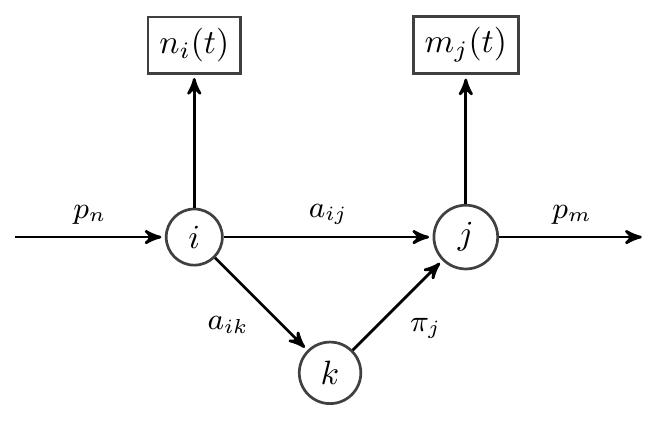
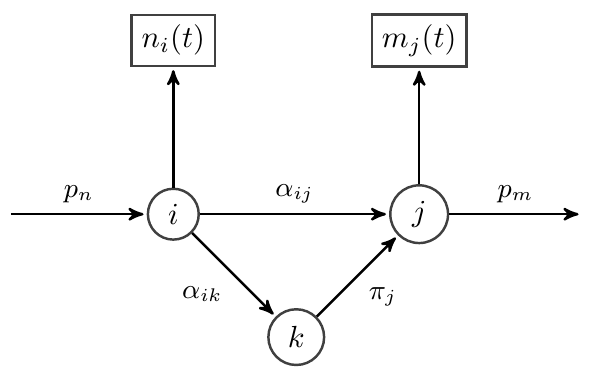
///////////// |_o_| |_o_| | |   c       | | /------\  | |/        \ | |__________\|

Changed region(s): [[0.0, 0.1755, 0.9697, 0.9947], [0.6061, 0.0293, 0.7879, 0.5266], [0.2121, 0.0293, 0.3939, 0.1755]]

diff --git a/417/term_project/417course_project.html b/417/term_project/417course_project.html
@@ -14,20 +14,49 @@
 			margin-left: 30px;
 		}
 
-		h1, h2 {
+		h1, h2, h3 {
 		    font-family: Arial, Helvetica, sans-serif;
 		}
 		figure{
 			text-align: center;
 		}
+		span.author{
+			font-size: 14pt;
+		}
 		</style>
+		<head>
+		<script type="text/x-mathjax-config">
+		  MathJax.Hub.Config({tex2jax: {inlineMath: [['$','$'], ['\\(','\\)']]}});
+		  // MathJax.Hub.Register.StartupHook("AsciiMath Jax Config",function () {
+		  //   var AM = MathJax.InputJax.AsciiMath.AM;
+		  //   AM.symbols.push(
+		  //     {input:"mathbi", tag:"mstyle", atname:"mathvariant", atval:"bold-italic",
+		  //      output:"mathbi", tex:null, ttype:AM.TOKEN.UNARY}
+		  //   );
+		  // });
+		  MathJax.Hub.Config({ TeX: { equationNumbers: {autoNumber: "AMS"} } });
+		</script>
+		<script type="text/javascript"
+		  src="http://cdn.mathjax.org/mathjax/latest/MathJax.js?config=TeX-AMS-MML_HTMLorMML">
+		</script>
+
+		<script src="http://ajax.googleapis.com/ajax/libs/jquery/1.11.1/jquery.min.js"></script>
+		<script>
+			$("a[href='#top']").click(function() {
+			  $("html, body").animate({ scrollTop: 0 }, "slow");
+			  return false;
+			});
+		</script>
+</head>
 	</HEAD>
 <BODY>
 	<center>
 		<H1>
-			Investigation on Network Calibration
+			Study on Network Calibration
 		</H1>
-		by Yi Tian Xu 
+		<span class="author">by Yi Tian Xu <br>
+		Undergraduate in Statistics and Computer Science <br>
+		@McGill University, December 2014</span>
 	</center>
 	<P class="abstract">
 		This project outlines the idea proposed by Dimitrios Makris, Tim Ellis and James Black through their paper "<a href="http://www.cim.mcgill.ca/~dudek/417/Papers/sensenet-markis-e-b.pdf" target="blank">Briging the Gaps between Camera</a>" published in 2004. This
@@ -50,29 +79,73 @@
 <a name="1"></a><h2>Introduction</h2>
 <p>To track objects in an environmnet partially monitored by cameras, an intelligent surveillance system need to know how to deal with targets transiting through the blind regions between two spatially adjacent cameras. Such system would be able to continuously track targets and to generate complete target activity records. </p>
 
-<p>Past research has been done on single camera tracking and matching tracks in overlapping camera views. Some methods have been proposed to track single object through multiple camera views. Notably, Javed et al suggest to correspond the individial tracks of a target using feature matching by maximizing the posterior probability of the spatio-temporal and color apparance of the target. However, color is not guaranteed to be always reliable to match targets across multiple cameras.</p>
+<p>Past research has been done on single camera tracking and matching tracks in overlapping camera views. Some methods have been proposed to track single object through multiple camera views. Notably, Javed et al suggest to correspond the individial tracks of a target using feature matching by maximizing the posterior probability of the spatio-temporal and color apparance of the target. <a href="#r2">[2]</a> However, color is not guaranteed to be always reliable to match targets across multiple cameras.</p>
 
 <p> An alternative approach is to find a model of the environment and of the camera connectivity, enabling the system to predict the bahavior its targets. This allows one camera to "handover" the track to the next camera as the target move across the two, and thus avoids the need of establishing any correspondence. This model can carry spacial (topology) and temporal (time taken for targets to move between views) information of the network.
 </p>
 
 <p>The topology of the camera can be determined by using calibrated cameras, whose transformation function of pixel coordinates into 3D coordinates is already defined. If the coordinate system in which calibration is done is common to all the cameras, a geometric analysis of each camera views would then allows spatial adjacency to be established. However, in a large network of cameras, it would be preferable if the system can calibrate itself automatically. Furthermore, a common coordinate system might not be necessary since establishing spatial adjacency requires simply the knowledge of the cameras position relative to each other.</p> 
 
-<p>This project inverstigates on unsupervised learning method, "network calibration",proposed by Makris et al, that estabilishes links between camera views without any requirement of correspondence of target tracks and pre-calibration. This method trains itself on a dataset of observed target trajectories and infers the topology of the camera network based on statistics. 
+<p>This project inverstigates on unsupervised learning method, "network calibration",proposed by Makris et al, that estabilishes links between camera views without any requirement of correspondence of target tracks and pre-calibration. This method trains itself on a dataset of observed target trajectories and infers the topology of the camera network based on statistics. <a href="#r1">[1]</a>
 </p>
+<a href='#top'>[top]</a>
 
 <a name="2"></a><h2>Theory</h2>
-<p>Each camera view has a set of zones describing where targets enter or leave. These entry/exit zones can be represented as nodes in a tempo-topographical model. Each edge between two nodes denote an transition which is either visibile or invisible to the cameras. A target appearing and dissapearing in a camera view will kindle two signals to the cameras: one at the entry zone <i>i</i> and one at the exit zone <i>j</i>. These signals are modeled as Bernoulli processes, <i>N<sub>i</sub></i> and <i>M<sub>j</sub></i>. That is, at some time <i>t</i>, the probability of seeing a target appearig at zone <i>i</i> is 
-<center>
-	<i>p(n<sub>i</sub>(t) = 1) = E[N<sub>i</sub>]</i>
-</center></p>
+<p>Each camera view has a set of zones describing where targets enter or leave. These entry/exit zones can be represented as nodes in a network. Each edge between two nodes denote an transition which is either visibile or invisible to the cameras. Figure 1 shows an exmples of such network with two zones. </p> 
 
-<p> 
 <figure>
 	<img src="graphmodel.png" alt="Tempo-topographical model">
-	<figcaption><b>Figure 1</b> The tempo-topographical model showing entry zone <i>i</i> and exit zone <i>j</i>.</figcaption>
+	<figcaption><b>Figure 1</b> The network showing entry zone $i$ and exit zone $j$.</figcaption>
 </figure> 
 
+<p>The transition probability of a target from zone $i$ to zone $j$ is $\alpha_{ij} = \int \alpha_{ij}(\tau) d\tau$ where $\alpha_{ij}(\tau)$ for each $\tau$ is the probability of transiting within a time $\tau$. Any region outside of zone $i$ and $j$ is represented by a virtual node $k$. Targets may move from zone $i$ to somewhere else with probability $\alpha_{ik}$ and enter zone $j$ from somewhere else with rate $\pi_{j}$. The transitions filful
+
+\begin{equation*}\sum_{Z} \alpha_{iZ} = 1\end{equation*}
+
+A target disappearing at zone $i$ and reapearing at zone $j$ will kindle two signals to the cameras. These signals are modeled as Bernoulli processes, $N_i$ and $M_j$ respectively, and they are assumed to be indvidually and jointly stationary. That is, at any time $t$, the probability of seeing a target appearig at zone $i$ is 
+
+\begin{equation*}p_n = p(n_i(t) = 1) = E[N_i]\end{equation*}
+
+and the probability of seen a target dissapearing at zone $j$ is
+
+\begin{equation*}p_m = p(m_j(t) = 1) = E[M_j]\end{equation*}
+
+If zone $i$ and zone $j$ are adjacent or overlapping, then their associated signals are correlated, i.e.: if a target appears in zone $i$, there is a higher chance that it will appear in zone $j$ after some time $\tau^*$. This implies that the transition probability $\alpha_{ij}(\tau^*)$ is much higher than $\alpha_{ij}(\tau) \ \forall \tau \neq \tau^*$. Such links between zones can be detected by estimating the cross-correlation, defined as
+
+\begin{equation*}R_{ij}(\tau) = E[n_i(t) m_j(t+\tau)]\end{equation*}
+
+and the covariance, 
+
+\begin{equation*}\mbox{Cov}_{ij}(\tau) = R_{ij}(t) - p_np_m\end{equation*}
+
+If $\int$Cov$_{ij}(\tau) d\tau = 0$, then the signals are independent. Finally, the transition probability can be estimated using
+
+\begin{equation*}\alpha_{ij}(\tau) = \mbox{Cov}_{ij}(\tau) / p_n(1-p_n)\end{equation*}
+
+</p>
+<a href='#top'>[top]</a>
+
 <a name="3"></a><h2>Implementation</h2>
+<p>The entry/exit zones are known before starting Network Calibration. They can be leant using Expectation-Maximization on a dataset of trajectories as did Makris et al for their implementation, which is presented in one of their preious works. <a href="#r3">[3]</a> Let $Z$ be the set of learnt zones. Each signal $N_i$ from some zone $i\in Z$ is modeled as a Guassian distribution with mean $\boldsymbol\mu_i$, covariance $\boldsymbol\Sigma_i$ and a prior probability $p_i = p_n$. Together, the network is represented by a Gaussian Mixture $\theta = \{\boldsymbol\mu_i, \boldsymbol\Sigma_i, p_i | i\in Z\}$. </p>
+<p>Further observations of trajectories are done by the cameras to learn the topology. This process is mainly divided into three parts: data classification, parameter estimations, interpretation. </p>
+
+<a name="33"></a><h3>Data Classification</h3>
+<p>For each signal $x$ related to an appearance/disappearance of a target, Maximum-a-Posteriori is used to estimate which entry/exit zone $x$ belongs to using the following equations.
+
+\begin{equation*}\mbox{most likely zone = arg}\max_{i\in Z} (p(i|x,\theta))\end{equation*}
+
+where
+
+\begin{align}
+	&p(i|x,\theta) = \eta p_i p(x|i)\\
+	&p(x|i) = \frac{1}{\sqrt{2\pi|\boldsymbol\Sigma_i|}} \exp{\left(-\frac{1}{2}(x - \boldsymbol\mu_i)^\top \boldsymbol\Sigma_i^{-1}(x - \boldsymbol\mu_i)\right)}
+\end{align}
+
+Equation (1) follows from Bayes Rule; $\eta = \sum_{j\in Z} p_j p(x|j)$ is the normalization factor. Equation (2) decribes the probability of having a signal at zone $i$, which is assumed to follow the guassian distribution. The logarithm of the probabilities is used instead and the equations can be simplified into the following.
+
+\begin{equation*} p(i|x,\theta) \propto \log{(p_i p(x|i))} - \frac{1}{2}\log{|\boldsymbol\Sigma_i|} -\frac{1}{2}(x - \boldsymbol\mu_i)^\top \boldsymbol\Sigma_i^{-1}(x - \boldsymbol\mu_i)\end{equation*}
+</p> 
+<a href='#top'>[top]</a>
 
 <a name="4"></a><h2>Results</h2>
 
@@ -88,7 +161,12 @@ The advantages of the method are....
 The disadvantages of the method include....
 Other possible avenues for exploration include....
 
+<a name="6"></a><h2>References</h2>
+<p><a name="r1"></a>[1] Makris, D.; Ellis, T.; Black, J. "Bridging the gaps between cameras",  Computer Vision and Pattern Recognition, 2004. CVPR 2004. Proceedings of the 2004 IEEE Computer Society Conference on, On page(s): II-205 - II-210 Vol.2 Volume: 2, 27 June-2 July 2004 </p>
+<p><a name="r2"></a>[2] Omar Javed, Zeeshan Rasheed, Khurram Shafique, Mubarak Shah, "Tracking Across Multiple Cameras With Disjoint Views", IEEE International Conference on Computer Vision, Nice, France, 2003. </p>
+<p><a name="r3"></a>[3] D. Makris, T.J. Ellis, "Automatic Learning of an Activity-Based Semantic Scene Model", IEEE International Conference on Advanced Video and Signal Based Surveillance, Miami, FL, USA, pp. 183-188. July 2003.  </p>
 
-<!-- <a href=>[top]</a> -->
+<a href='#top'>[top]</a>
 </BODY>
+</html>
 
